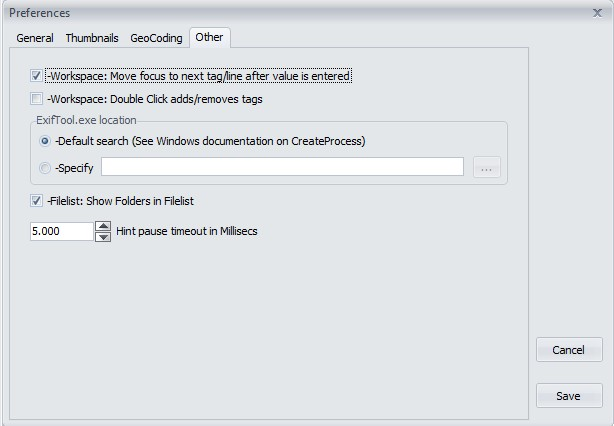
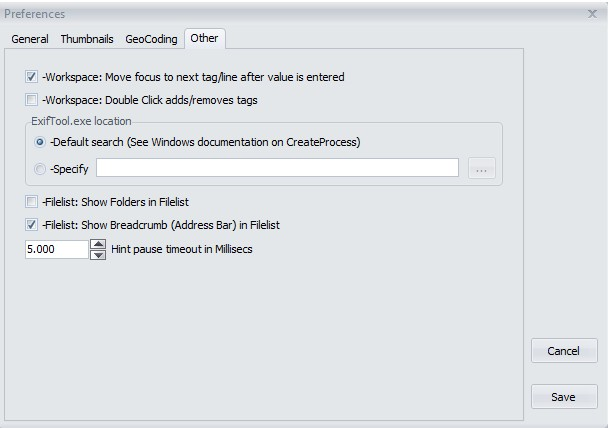
Request: Make 'BreadCrumBar' a standalone option in Preferences #204
fix #204

Changed region(s): [[0.0, 0.0, 1.0, 1.0], [0.875, 0.885, 1.0, 0.9765], [0.875, 0.7629, 1.0, 0.8545]]

diff --git a/Docs/ExifToolGUI_V6.md b/Docs/ExifToolGUI_V6.md
@@ -60,6 +60,7 @@ Basic idea behind GUI is, to keep it <u>simple!</u> Thus, only those options are
 <li>Exporting and Importing previews has been revised, and offer greater flexibility.</li>
 <li>GeoCoding has been enhanced. You can now choose from 2 providers (https://overpass-api.de and https://geocode.maps.co) and lookup City, Province and Country from GPS coordinates AKA reverse GeoCoding.</li>
 <li>Option added to show folders in the FileList panel.</li>
+<li>Option added to show a Breadcrumb (Address bar) in the FileList panel.</li>
 <li>Possibility to add Custom options to Exiftool.</li>
 <li>Experimental support for <a href="Readme%204K%20monitor.txt"><b>4K monitors.</b></a></li>
 </ul>
@@ -257,7 +258,8 @@ double-clicking on one of the tabs Exif, Xmp, Iptc, Maker, All will add that tag
 If you need to override the location of exiftool.exe you can do that here.<br><br>
 <b>Filelist: Show Folders in Filelist</b><br>
 The default setting is to only show files in the Filelist panel. If you enable this option, also folders (directories) will be shown, allowing easier navigation.<br>
-It will also enable a BreadCrumb bar.<br><br>
+<b>Filelist: Show Breadcrumb (Address bar) in Filelist</b><br>
+Enable a BreadCrumb bar on top of the filelist. Allows for easier navigating.<br><br>
 <b>Hint pause timeout in Millisecs</b><br>
 Hovering over the metadata panel will display the complete metadata value as a hint. This was added because long values are often not completely visible.<br>
 Setting this value to 0 (zero) will effectively disable the hints.
